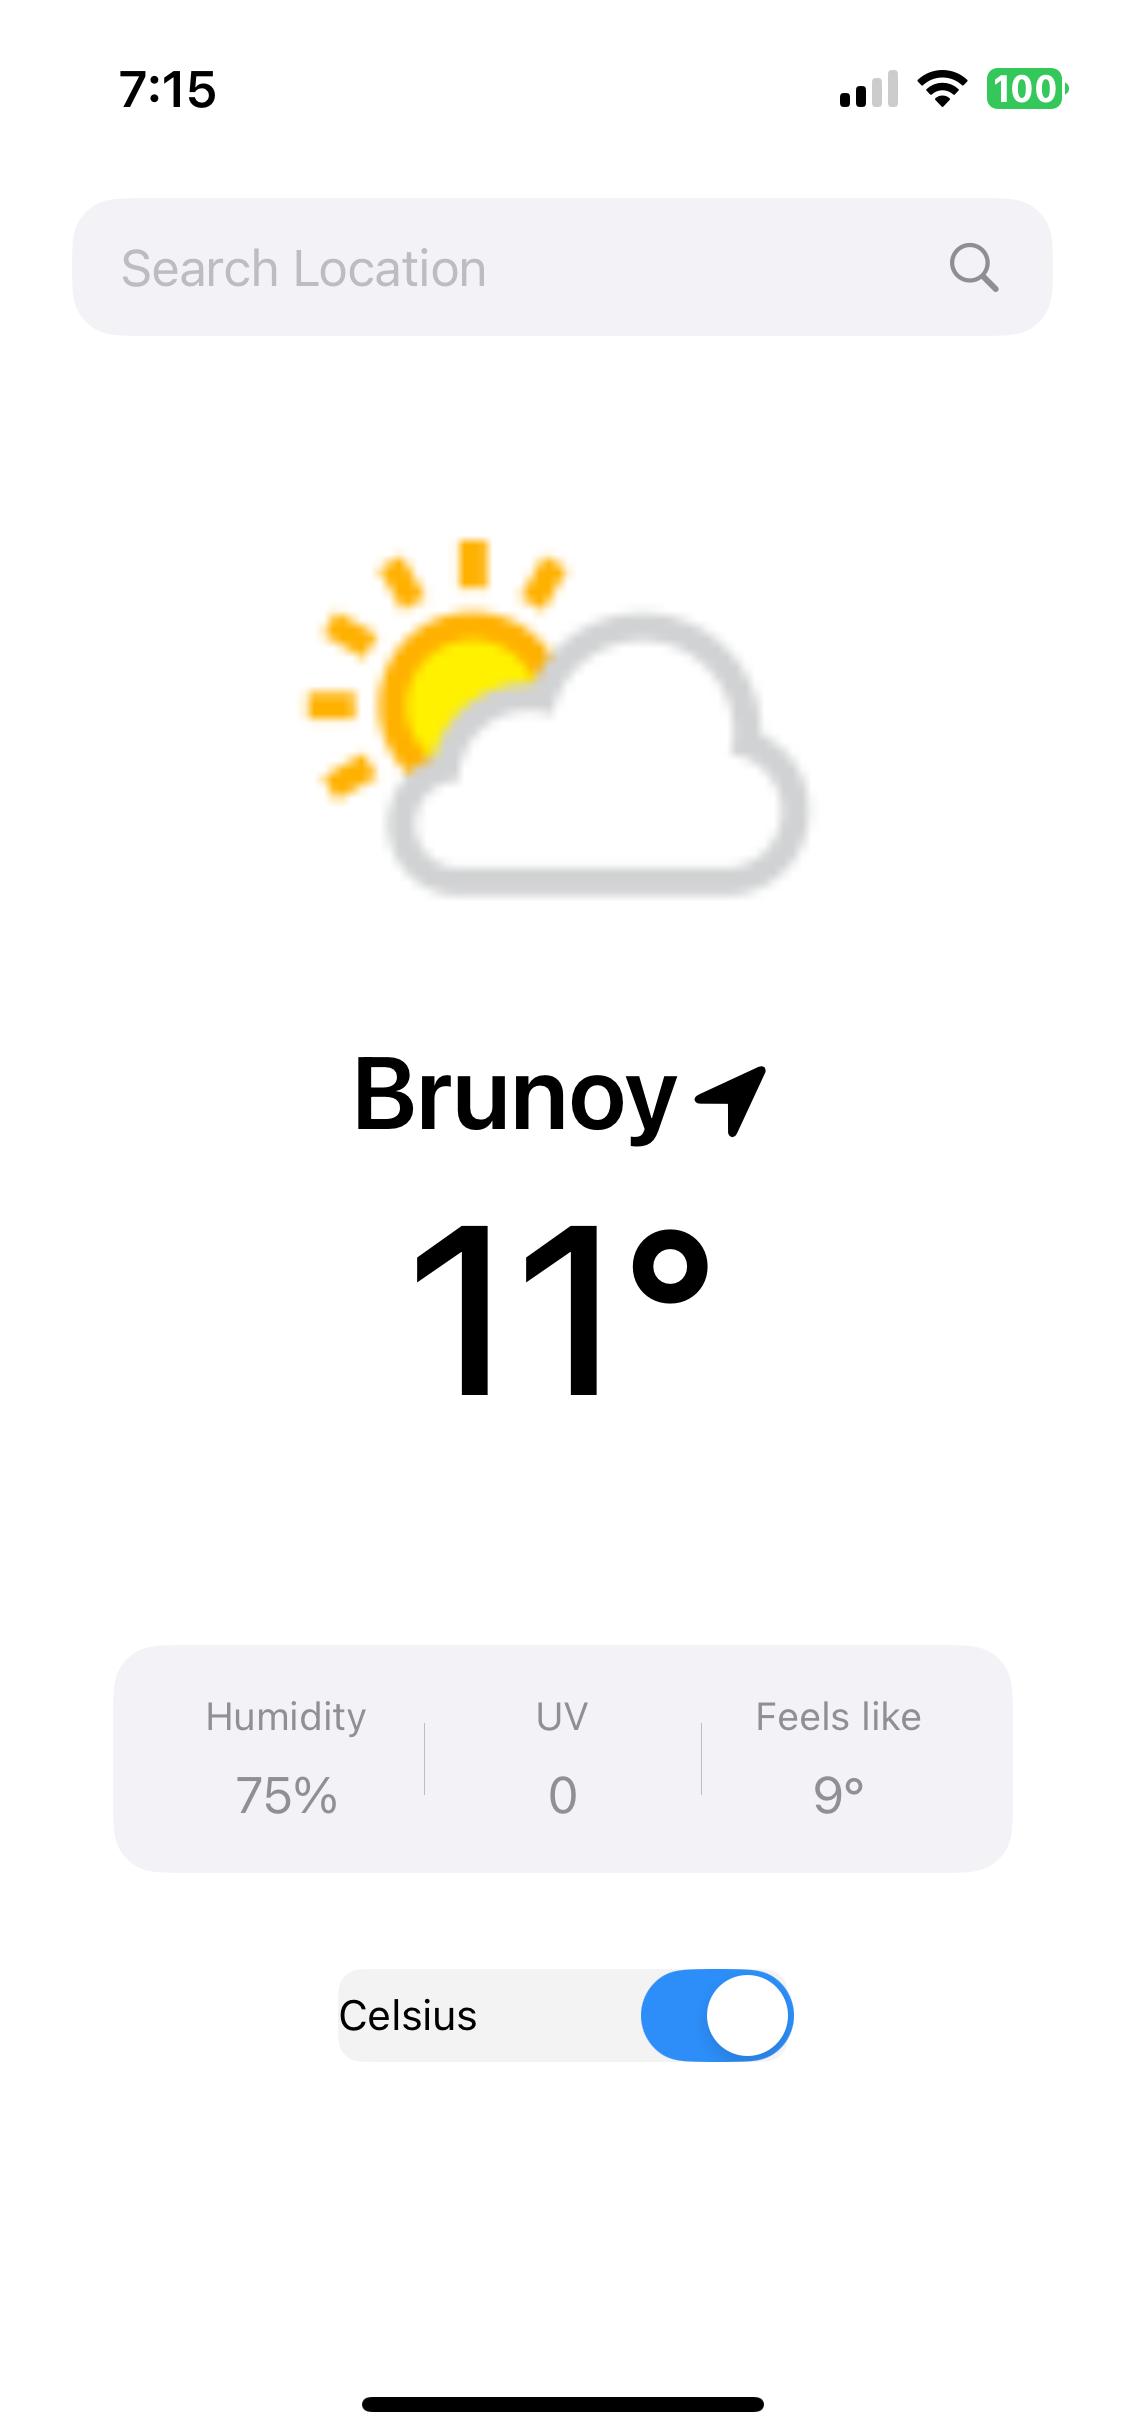
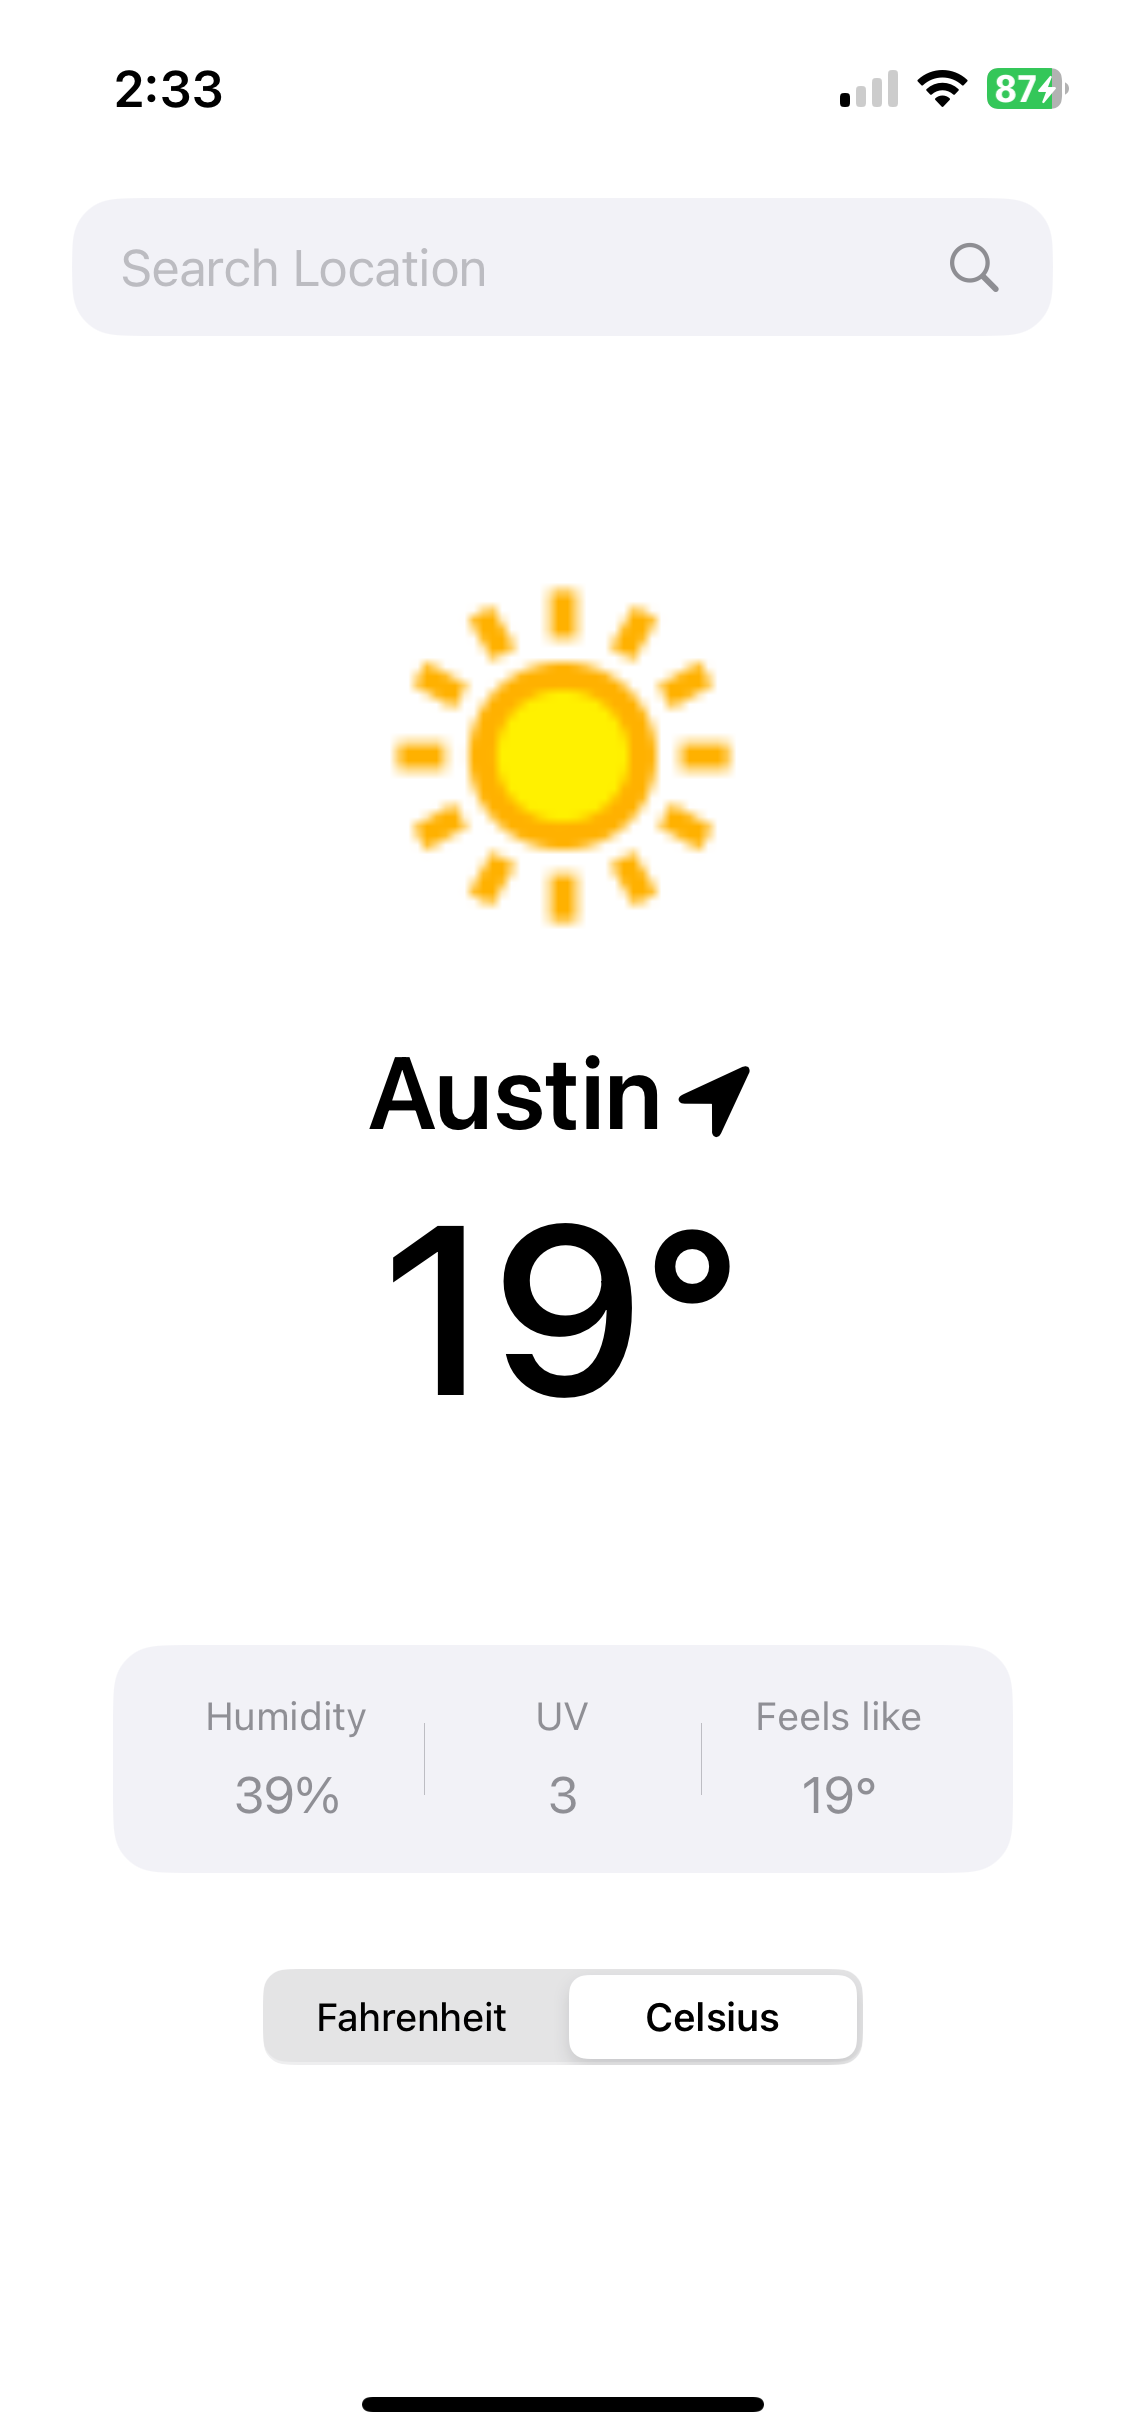
Replace toggle with Picker

diff --git a/WeatherTracker/Screens/Views/WeatherView.swift b/WeatherTracker/Screens/Views/WeatherView.swift
@@ -80,12 +80,12 @@ struct WeatherView: View {
                 .padding(.bottom, 32)
             }
 
-            Toggle(isOn: $isCelsius) {
-                Text(isCelsius ? "Celsius" : "Fahrenheit")
-                    .font(.system(size: 14))
+            Picker("Temperature Unit", selection: $isCelsius) {
+                Text("Fahrenheit").tag(false)
+                Text("Celsius").tag(true)
             }
-            .toggleStyle(SwitchToggleStyle(tint: Color.blue.opacity(0.8)))
-            .frame(width: 150)
+            .pickerStyle(.segmented)
+            .frame(width: 200)
             .background(RoundedRectangle(cornerRadius: 8)
                 .fill(Color.gray.opacity(0.1)))
 

diff --git a/README.md b/README.md
@@ -1,7 +1,7 @@
 # WeatherTracker
 
 ## Description
-WeatherTracker is an iOS weather application built with Swift and SwiftUI that provides real-time weather information. The app features a clean, intuitive interface that displays comprehensive weather data for a selected city, including temperature, weather conditions, humidity, UV index, "feels like" temperature and a Celsius / Fahrenheit toggle.
+WeatherTracker is an iOS weather application built with Swift and SwiftUI that provides real-time weather information. The app features a clean, intuitive interface that displays comprehensive weather data for a selected city, including temperature, weather conditions, humidity, UV index, "feels like" temperature and a Celsius / Fahrenheit picker.
 
 ## Installation
 1. Clone the repository
@@ -31,7 +31,7 @@ WeatherTracker is an iOS weather application built with Swift and SwiftUI that p
 - User-friendly onboarding prompts for initial city selection
 - Pull-to-refresh functionality for updating weather data
 - Network connectivity monitoring with appropriate user alerts for offline scenarios
-- Celsius / Fahrenheit toggle
+- Celsius / Fahrenheit picker
 - Swift Testing test cases
 
 ## License
